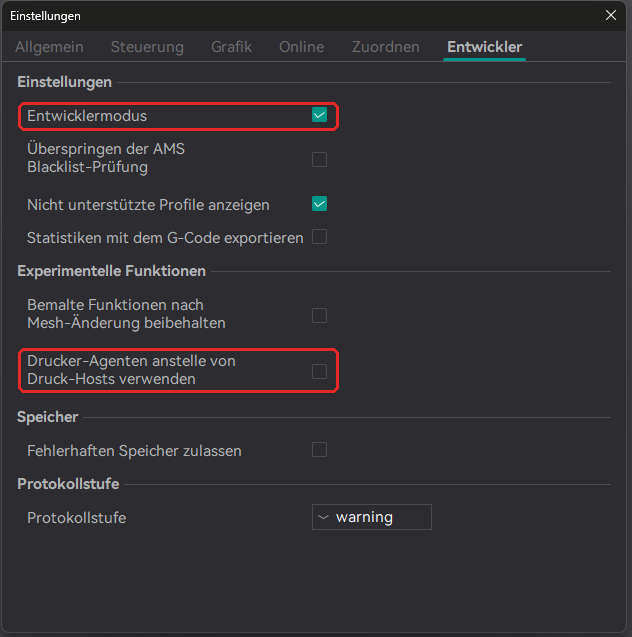
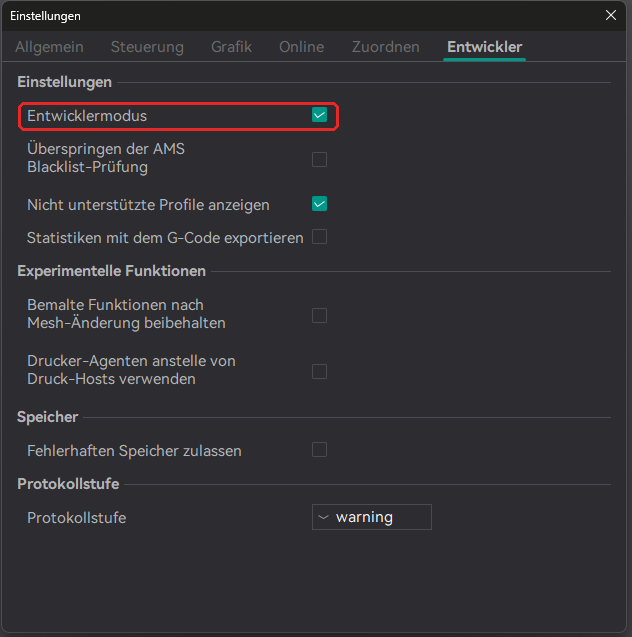
Docs: OrcaSlicer needs only developer mode, not the printer-agents option

Changed region(s): [[0.0301, 0.5369, 0.5411, 0.6264]]

diff --git a/docs/ORCASLICER.de.md b/docs/ORCASLICER.de.md
@@ -55,11 +55,11 @@ Filamenten in Spoolman.
 
 ## 2. Einmalig in OrcaSlicer
 
-1. Einstellungen → Reiter *Entwickler*: **Entwicklermodus** und **Drucker-Agenten
-   anstelle von Druck-Hosts verwenden** anhaken (englisch: *Developer mode*,
-   *Use printer agents instead of print hosts*).
+1. Einstellungen → Reiter *Entwickler*: **Entwicklermodus** anhaken
+   (englisch: *Developer mode*). Die übrigen Optionen dort bleiben, wie sie
+   sind.
 
-   ![Orca-Einstellungen, Reiter Entwickler: beide Optionen anhaken](images/orca_developer_settings.png)
+   ![Orca-Einstellungen, Reiter Entwickler: Entwicklermodus anhaken](images/orca_developer_settings.png)
 
 2. Eigenes Druckerprofil bearbeiten (*Drucker-Einstellungen → Grundlegende
    Informationen*), Ansicht *Erweitert*: **Drucker-Agent = Moonraker**. Als

diff --git a/docs/ORCASLICER.md b/docs/ORCASLICER.md
@@ -53,10 +53,10 @@ PowerShell script.
 
 ## 2. Once in OrcaSlicer
 
-1. Preferences → tab *Developer*: tick **Developer mode** and **Use printer
-   agents instead of print hosts** (screenshot: German UI).
+1. Preferences → tab *Developer*: tick **Developer mode** (screenshot: German
+   UI). Leave the other options there as they are.
 
-   ![Orca preferences, Developer tab: tick both options](images/orca_developer_settings.png)
+   ![Orca preferences, Developer tab: tick developer mode](images/orca_developer_settings.png)
 
 2. Edit your printer profile (*Printer settings → Basic information*),
    *Advanced* view: **Printer agent = Moonraker**. Enter `<PRINTER-IP>` as
